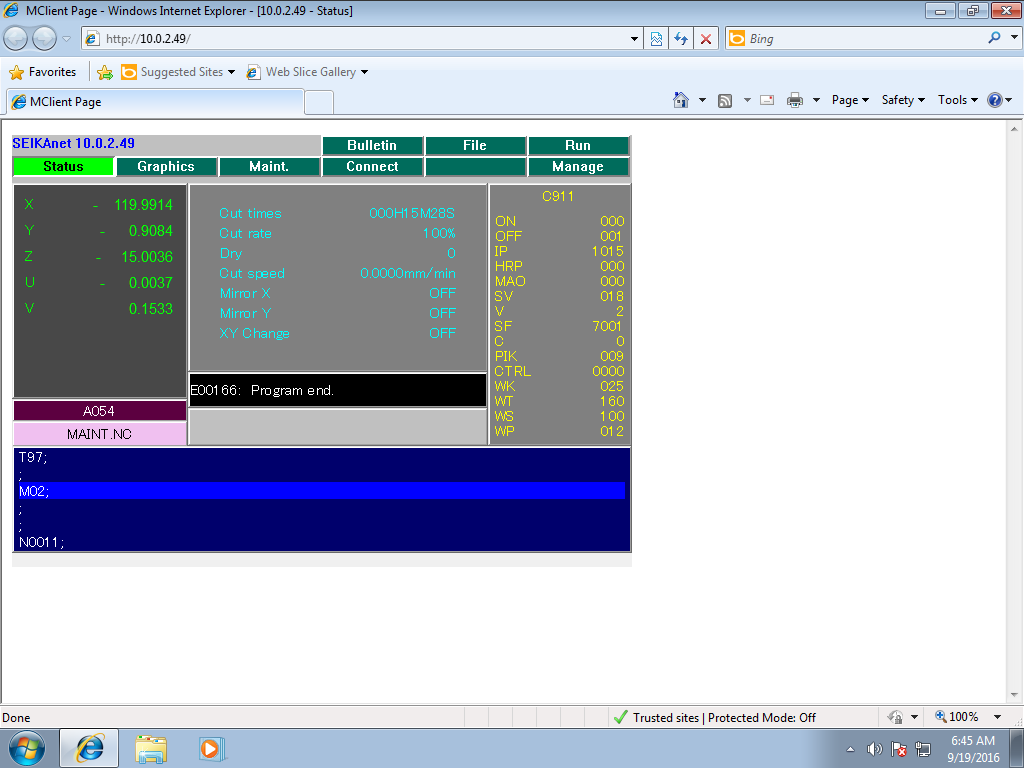
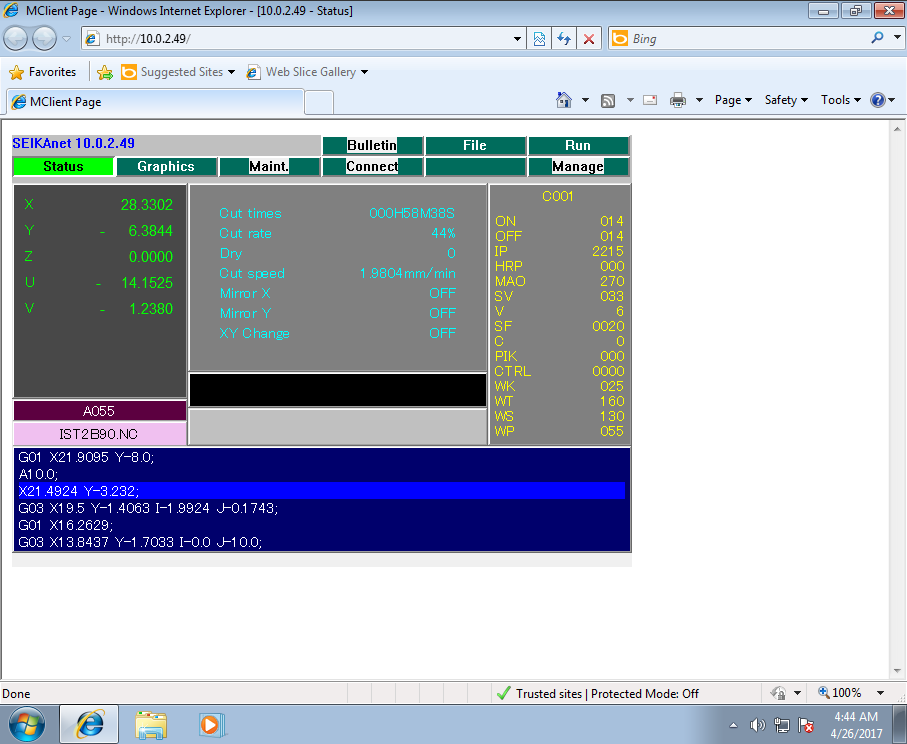
Lagt in en loop och sparning av bilder till dropbox. Allt hårdkodat

Changed region(s): [[0.0, 0.0, 1.0, 0.7419], [0.0, 0.8965, 1.0, 1.0]]

diff --git a/src/main/java/se/mecona/sodickstatus/Main.java b/src/main/java/se/mecona/sodickstatus/Main.java
@@ -8,6 +8,9 @@ package se.mecona.sodickstatus;
 import java.awt.image.BufferedImage;
 import java.io.File;
 import java.io.IOException;
+import static java.lang.Thread.sleep;
+import java.util.logging.Level;
+import java.util.logging.Logger;
 import javax.imageio.ImageIO;
 
 /**
@@ -15,30 +18,51 @@ import javax.imageio.ImageIO;
  * @author Mcx8
  */
 public class Main {
-    
-    private static final String SCREEN_SHOT_CMD = "\"C:\\Program Files\\Oracle\\VirtualBox\\VBoxManage.exe\" controlvm \"IE8 - Win7\" screenshotpng Test.png";
-    private static final String PATH_TO_SCREEN_SHOT = "C:\\Users\\Mcx8\\Documents\\NetBeansProjects\\SodickStatus\\Test.png";
-    private static final String PATH_TO_PR_IMAGE = "C:\\Users\\Mcx8\\Documents\\NetBeansProjects\\SodickStatus\\pr.png";
-    private static final String PATH_TO_STATUS_IMAGE = "C:\\Users\\Mcx8\\Documents\\NetBeansProjects\\SodickStatus\\status.png";
-    
+
+    private static final String QUOTE_CHAR = "\"";
+    private static final String BASE_PATH = "D:\\Mats Dokument\\Dropbox\\Screenshots\\";
+    private static final String SCREEN_SHOT_CMD = "\"C:\\Program Files\\Oracle\\VirtualBox\\VBoxManage.exe\" controlvm \"IE8 - Win7\" screenshotpng "
+            + QUOTE_CHAR + BASE_PATH + "Test.png" + QUOTE_CHAR;
+    private static final String PATH_TO_SCREEN_SHOT = BASE_PATH + "Test.png";
+    private static final String PATH_TO_PR_IMAGE = BASE_PATH + "pr.png";
+    private static final String PATH_TO_STATUS_IMAGE = BASE_PATH + "status.png";
+
     public static void main(String[] args) {
+        while (true) {
+            doScreenshot();
+            try {
+                sleep(60000);
+            } catch (InterruptedException ex) {
+                
+            }
+        }
+    }
+
+    private static void doScreenshot() {
         System.out.println("Starting");
         System.out.println("Taking screenshot");
         try {
             Process process = Runtime.getRuntime().exec(SCREEN_SHOT_CMD);
+            int processOutput = process.waitFor();
+            System.out.println("Return code " + processOutput);
+            System.out.println("Reading screenshot");
             BufferedImage image = ImageIO.read(new File(PATH_TO_SCREEN_SHOT));
 
             BufferedImage prImage = image.getSubimage(420, 222, 40, 20);
             File prFile = new File(PATH_TO_PR_IMAGE);
+            System.out.println("Writing procent ready image");
             ImageIO.write(prImage, "png", prFile);
 
             image = ImageIO.read(new File(PATH_TO_SCREEN_SHOT));
             BufferedImage statusImage = image.getSubimage(187, 378, 295, 22);
             File statusFile = new File(PATH_TO_STATUS_IMAGE);
+            System.out.println("Writing status image");
             ImageIO.write(statusImage, "png", statusFile);
 
         } catch (IOException ex) {
             System.out.println("Exception " + ex.getMessage());
+        } catch (InterruptedException ex) {
+            Logger.getLogger(Main.class.getName()).log(Level.SEVERE, null, ex);
         }
     }
 
